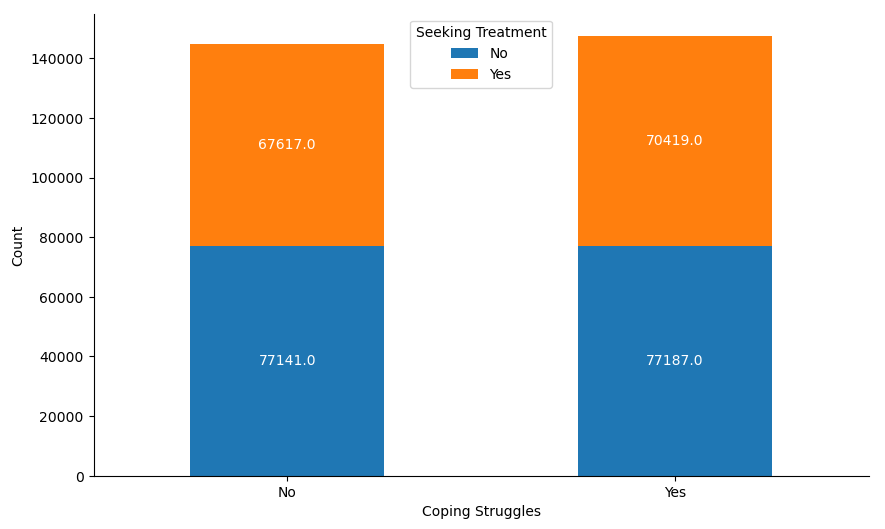
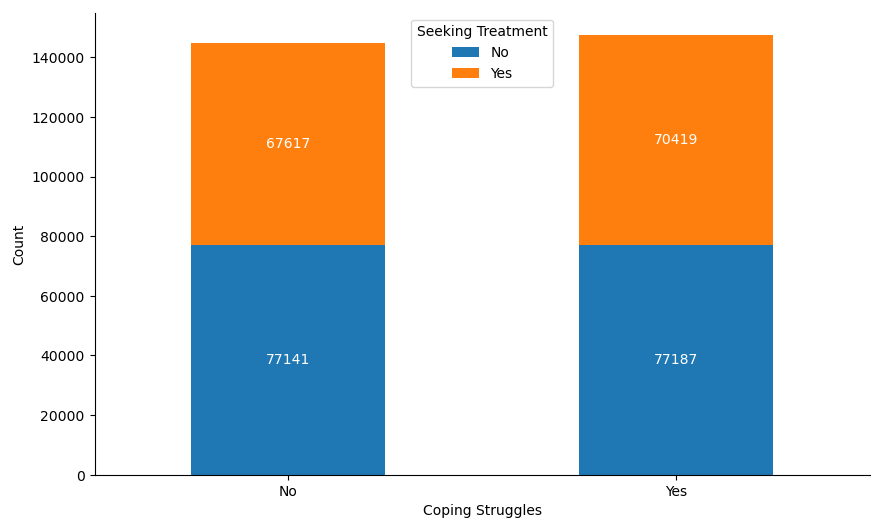
Added mood swings by treatment by gender

diff --git a/projects/_posts/2024-04-11-treatment-analysis.md b/projects/_posts/2024-04-11-treatment-analysis.md
@@ -27,7 +27,7 @@ Chart showing individuals seeking treatment by gender.
 <div markdown="1">
 ```python
 # get counts by gender and if they are seeking treatment
-treatment_by_gender = df.groupby(['gender', 'treatment'])['treatment'].count().unstack().fillna(0)
+treatment_by_gender = df.groupby(['gender', 'treatment'])['treatment'].count().unstack()
 # get a propotion based on the above results
 treatment_by_gender_proportion = treatment_by_gender.div(treatment_by_gender.sum(1), axis=0)
 
@@ -38,44 +38,33 @@ labels = ['Female', 'Male']
 label_colors = ['black', 'white']
 
 # set the fig size for the titles
-fig, (ax1, ax2) = plt.subplots(1, 2, figsize=(10, 4))
+fig, (ax1, ax2) = plt.subplots(1, 2 ,figsize=(10, 4))
 
 # create a stacked bar on the left for counts
-ax1 = treatment_by_gender.plot(kind='bar', stacked=True, ax=ax1, xlabel='Coping Struggles', ylabel='Count', color=colors)
+ax1.bar(groups, treatment_by_gender.No.values, color=colors[0])
+ax1.bar(groups, treatment_by_gender.Yes.values, bottom = treatment_by_gender.No.values, color=colors[1])
 
 # set the location of the legend
 ax1.legend(title='Gender', labels=labels, loc='upper left')
 
-# rotation of xlabels
-for label in ax1.get_xticklabels():
-   label.set_rotation(0)
-   label.set_ha('right')
-    
-# create a stacked bar on the left for counts
-ax2 = treatment_by_gender_proportion.plot(kind='bar', stacked=True, ax=ax2, xlabel='Coping Struggles', ylabel='Count', color=colors)
-
-# set the location of the legend
-ax2.legend(title='Gender', labels=labels, loc='upper left')
-
-# rotation of xlabels
-for label in ax2.get_xticklabels():
-   label.set_rotation(0)
-   label.set_ha('right')
-    
 for i, c in enumerate(ax1.containers):
     # Optional: if the segment is small or 0, customize the labels
-    labels = [f'{v.get_height():.0f}' if v.get_height() > 0 else '' for v in c]
+    labels = [v.get_height() if v.get_height() > 0 else '' for v in c]
     # remove the labels parameter if it's not needed for customized labels
     ax1.bar_label(c, labels=labels, label_type='center', color=label_colors[i])
+    
+# create a stacked bar on the right for proportion
+ax2.bar(groups, treatment_by_gender_proportion.No, color=colors[0])
+ax2.bar(groups, treatment_by_gender_proportion.Yes, bottom = treatment_by_gender_proportion.No, color=colors[1])
 
 for i, c in enumerate(ax2.containers):
     # Optional: if the segment is small or 0, customize the labels
-    labels = [f'{v.get_height():.0f}' if v.get_height() > 0 else '' for v in c]
+    labels = [f'{v.get_height():.1f}' if v.get_height() > 0 else '' for v in c]
     # remove the labels parameter if it's not needed for customized labels
     ax2.bar_label(c, labels=labels, label_type='center', color=label_colors[i])
     
 # common axis labels
-fig.supxlabel('Seeking Treatment')
+fig.supxlabel('Individuals Seeking Treatment')
 fig.supylabel('Count')
 
 # Remove the top and right spines
@@ -271,8 +260,9 @@ ax1 = sns.countplot(x='mood_swings', data=df[df['gender'] == 'Female'], hue='tre
 
 # set the location of the legend
 ax1.legend(title='Treatment', labels=legend, loc='upper left')
-# set the xlabel for females chart
+# set the xlabel and ylabelfor females chart
 ax1.set_xlabel('Female')
+ax1.set_ylabel('Count')
 
 for i, c in enumerate(ax1.containers):
     # Optional: if the segment is small or 0, customize the labels
@@ -288,8 +278,9 @@ ax2  = sns.countplot(x='mood_swings', data=df[df['gender'] == 'Male'], hue='trea
 
 # set the location of the legend
 ax2.legend(title='Treatment', labels=legend, loc='upper left')
-# set the xlabel for females chart
-ax2.set_xlabel('Male')
+# set the xlabel and ylabelfor males chart
+ax2.set_xlabel('Mmale')
+ax2.set_ylabel('Count')
 
 for i, c in enumerate(ax2.containers):
     # Optional: if the segment is small or 0, customize the labels
